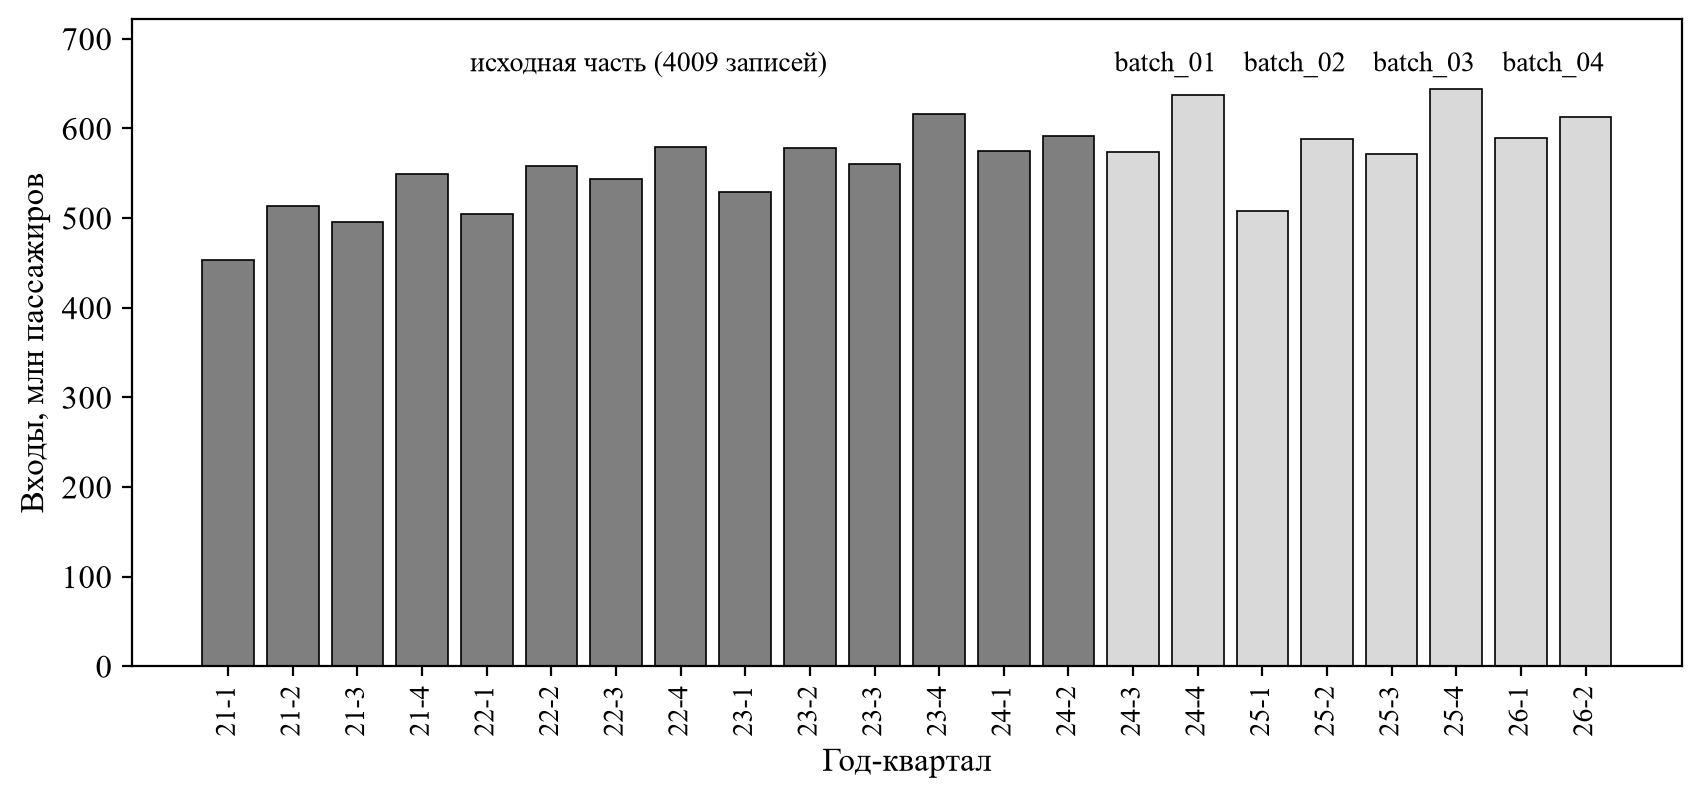
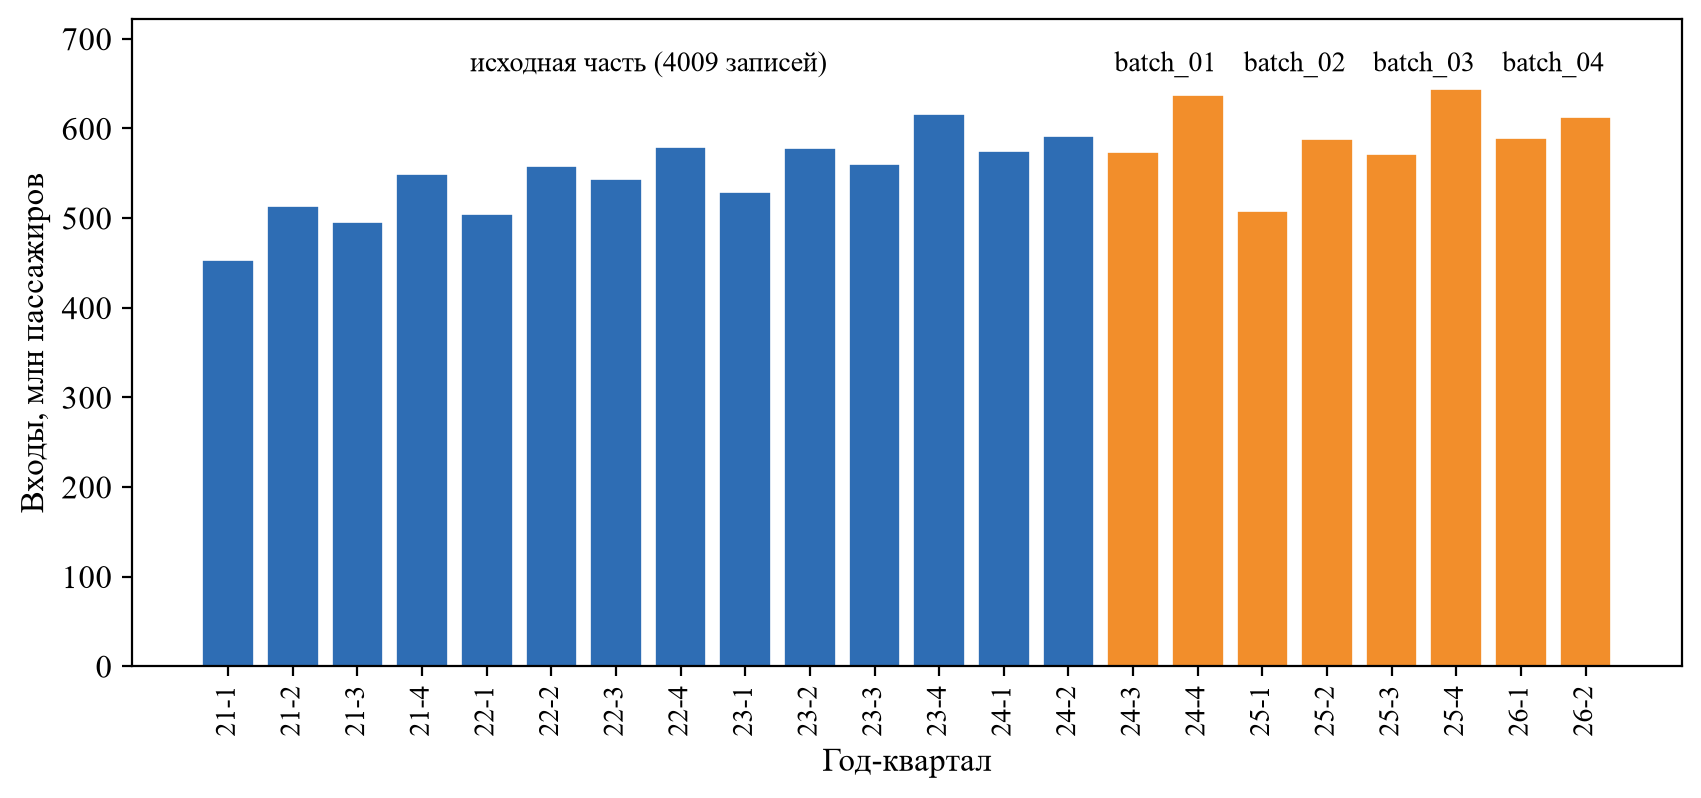
Цветные рисунки EDA

diff --git a/src/metro_flow/eda.py b/src/metro_flow/eda.py
@@ -20,6 +20,7 @@ FIG.mkdir(parents=True, exist_ok=True)
 QUARTER = {"I квартал": 1, "II квартал": 2, "III квартал": 3, "IV квартал": 4}
 plt.rcParams["font.family"] = "Times New Roman"
 plt.rcParams["font.size"] = 12
+BLUE, ORANGE, RED, LIGHT = "#2E6DB4", "#F28E2B", "#D62728", "#A9C8EA"
 R = {}
 
 
@@ -186,9 +187,9 @@ raw = pd.read_csv(ROOT / "data" / "raw" / "data-62743-08-09-2026.csv", sep=";", 
 raw["t"] = raw["Year"] * 10 + raw["Quarter"].map(QUARTER)
 tot = raw.groupby("t")["Incoming passengers"].sum() / 1e6
 labels = [f"{str(t)[2:4]}-{t % 10}" for t in tot.index]
-colors = ["#7f7f7f" if t <= 20242 else "#d9d9d9" for t in tot.index]
+colors = [BLUE if t <= 20242 else ORANGE for t in tot.index]
 fig, ax = plt.subplots(figsize=(10, 4.2))
-bars = ax.bar(range(len(tot)), tot.values, color=colors, edgecolor="black", lw=0.6)
+bars = ax.bar(range(len(tot)), tot.values, color=colors, edgecolor="white", lw=0.6)
 for i, (s, e) in enumerate([(20243, 20244), (20251, 20252), (20253, 20254), (20261, 20262)], 1):
     xs = [j for j, t in enumerate(tot.index) if s <= t <= e]
     ax.text(np.mean(xs), tot.max() * 1.03, f"batch_{i:02d}", ha="center", fontsize=10)
@@ -199,48 +200,51 @@ ax.set_ylim(0, tot.max() * 1.12)
 fig.savefig(FIG / "fig2_1_split.png", dpi=200, bbox_inches="tight"); plt.close(fig)
 
 fig, axs = plt.subplots(1, 2, figsize=(10, 3.8))
-axs[0].hist(d["inc"] / 1e6, bins=40, color="#9e9e9e", edgecolor="black", lw=0.5)
+axs[0].hist(d["inc"] / 1e6, bins=40, color=BLUE, edgecolor="white", lw=0.5)
 axs[0].set_xlabel("Входы за квартал, млн"); axs[0].set_ylabel("Число записей")
 axs[0].set_title("а) исходная шкала", fontsize=12)
-axs[1].hist(np.log10(nz["inc"]), bins=40, color="#9e9e9e", edgecolor="black", lw=0.5)
+axs[1].hist(np.log10(nz["inc"]), bins=40, color=ORANGE, edgecolor="white", lw=0.5)
 axs[1].set_xlabel("lg(входы за квартал)"); axs[1].set_title("б) логарифмическая шкала", fontsize=12)
 fig.tight_layout(); fig.savefig(FIG / "fig2_2_target.png", dpi=200, bbox_inches="tight"); plt.close(fig)
 
 fig, ax = plt.subplots(figsize=(6.4, 5.2))
-ax.scatter(nz["out"] / 1e6, nz["inc"] / 1e6, s=6, c="#555555", alpha=0.5)
+ax.scatter(nz["out"] / 1e6, nz["inc"] / 1e6, s=6, c=BLUE, alpha=0.5)
 bad = nz[(nz.ratio < 0.5) | (nz.ratio > 2)]
-ax.scatter(bad["out"] / 1e6, bad["inc"] / 1e6, s=60, facecolors="none", edgecolors="black", lw=1.5)
+ax.scatter(bad["out"] / 1e6, bad["inc"] / 1e6, s=80, facecolors="none", edgecolors=RED, lw=2)
 for _, r in bad.iterrows():
     ax.annotate(f"{r.station}, {str(r.t)[:4]}-{r.t % 10}", (r.out / 1e6, r.inc / 1e6),
-                xytext=(8, -4), textcoords="offset points", fontsize=10)
+                xytext=(8, -4), textcoords="offset points", fontsize=10, color=RED)
 m = max(nz["inc"].max(), nz["out"].max()) / 1e6
 ax.plot([0, m], [0, m], "k--", lw=0.8)
 ax.set_xlabel("Выходы, млн"); ax.set_ylabel("Входы, млн")
 fig.savefig(FIG / "fig2_3_in_out.png", dpi=200, bbox_inches="tight"); plt.close(fig)
 
 fig, ax = plt.subplots(figsize=(7, 4))
-ax.boxplot([wide[c] * 100 for c in (1, 2, 3, 4)], showfliers=False)
+bp = ax.boxplot([wide[c] * 100 for c in (1, 2, 3, 4)], showfliers=False, patch_artist=True,
+                medianprops=dict(color="black"))
+for patch_, col in zip(bp["boxes"], ["#A9C8EA", "#8BC34A", "#F6C85F", "#F28E2B"]):
+    patch_.set_facecolor(col)
 ax.set_xticks([1, 2, 3, 4], ["I", "II", "III", "IV"])
 ax.axhline(25, color="black", ls=":", lw=0.8)
 ax.set_xlabel("Квартал"); ax.set_ylabel("Доля квартала в годовом потоке, %")
 fig.savefig(FIG / "fig2_4_season.png", dpi=200, bbox_inches="tight"); plt.close(fig)
 
 fig, ax = plt.subplots(figsize=(7.4, 6))
-im = ax.imshow(cm.values, cmap="Greys", vmin=-1, vmax=1)
+im = ax.imshow(cm.values, cmap="RdBu_r", vmin=-1, vmax=1)
 ax.set_xticks(range(len(cm)), [cm_cols[c] for c in cm.columns], fontsize=10, rotation=45, ha="right")
 ax.set_yticks(range(len(cm)), [cm_cols[c] for c in cm.columns], fontsize=10)
 for i in range(len(cm)):
     for j in range(len(cm)):
         v = cm.values[i, j]
         ax.text(j, i, f"{v:.2f}", ha="center", va="center", fontsize=10,
-                color="white" if abs(v) > 0.6 else "black")
+                color="white" if abs(v) > 0.7 else "black")
 fig.colorbar(im, ax=ax, fraction=0.046)
 fig.savefig(FIG / "fig2_5_corr.png", dpi=200, bbox_inches="tight"); plt.close(fig)
 
 fig, ax = plt.subplots(figsize=(7, 3.8))
 for row in ramp:
-    ax.plot(range(1, 7), row, color="#bbbbbb", lw=0.8)
-ax.plot(range(1, 7), ramp.mean(axis=0), color="black", lw=2.2, marker="o", label="среднее")
+    ax.plot(range(1, 7), row, color=LIGHT, lw=0.8)
+ax.plot(range(1, 7), ramp.mean(axis=0), color=RED, lw=2.4, marker="o", label="среднее")
 ax.axhline(1, color="black", ls=":", lw=0.8)
 ax.set_xlabel("Номер квартала с момента открытия")
 ax.set_ylabel("Поток / средний поток\nкварталов 3–6")
